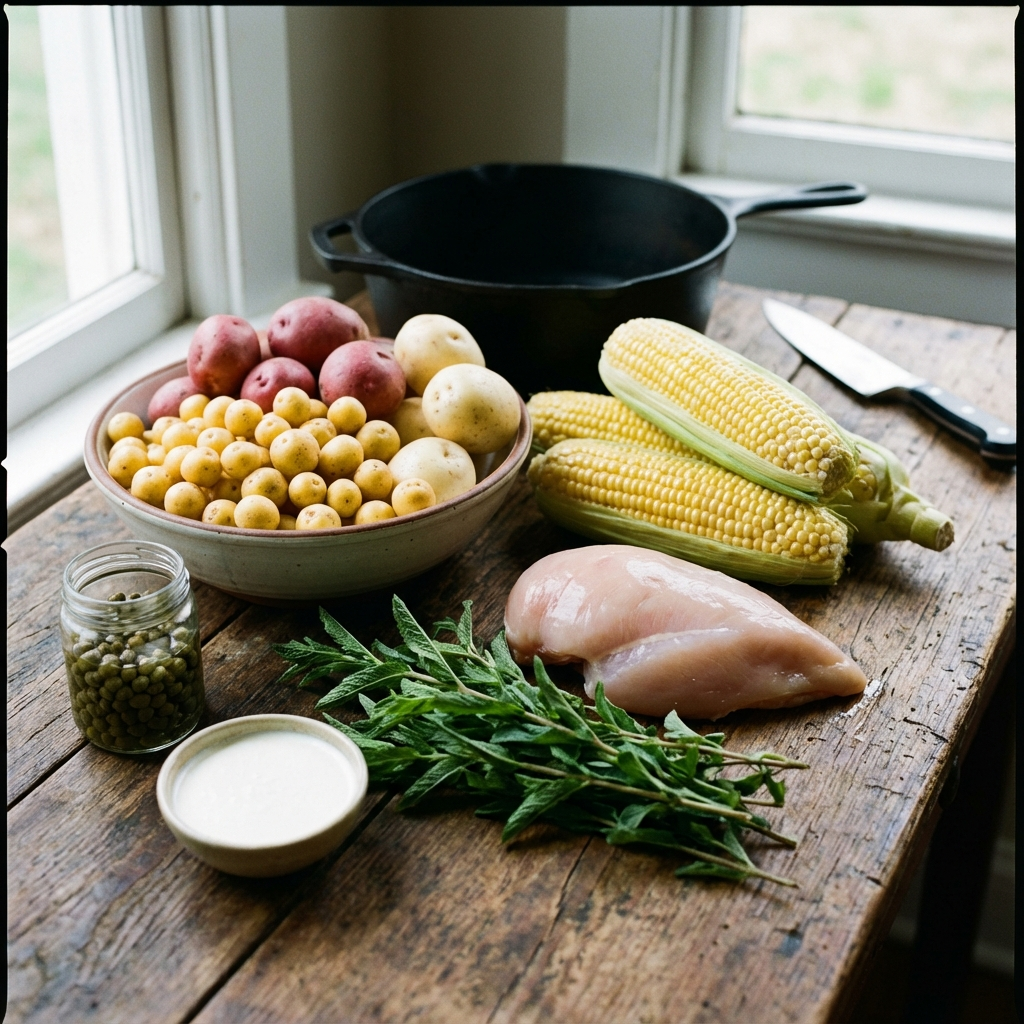
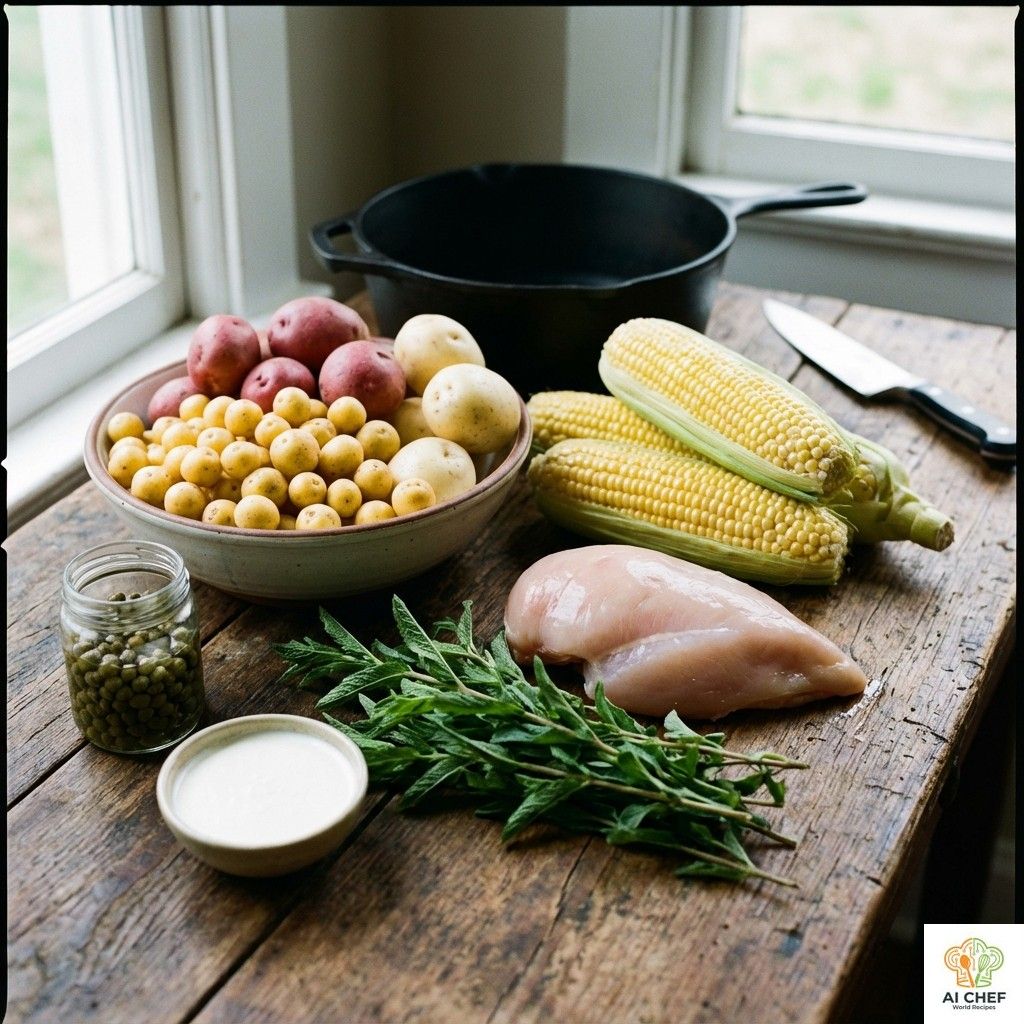
feat: apply watermark to recipe images (fixes binary upload to GitHub Pages)

Changed region(s): [[0.875, 0.875, 1.0, 1.0]]

diff --git a/site/scripts/watermark.js b/site/scripts/watermark.js
@@ -1,0 +1,77 @@
+
+import sharp from 'sharp';
+import fs from 'fs';
+import path from 'path';
+import { glob } from 'glob';
+
+const LOGO_PATH = path.join(process.cwd(), 'public/images/logo.png');
+const DISHES_DIR = path.join(process.cwd(), '../dishes');
+
+async function applyWatermark() {
+  console.log('🖼  Iniciando proceso de marca de agua...');
+
+  if (!fs.existsSync(LOGO_PATH)) {
+    console.error('❌ Error: No se encuentra el logo en ' + LOGO_PATH);
+    process.exit(1);
+  }
+
+  // Find all recipe images (jpg/jpeg/png) in dishes folder
+  // Exclude 'images' subfolders to avoid re-watermarking processed ones if we run multiple times (though we overwrite so it mimics updating)
+  // Actually, we want to watermark everything in dishes/**/images/*.jpg
+  const images = await glob('../dishes/**/*.{jpg,jpeg,png}', { ignore: '**/node_modules/**' });
+
+  console.log(`🔍 Encontradas ${images.length} imágenes para procesar.`);
+
+  let processedCount = 0;
+  let errorCount = 0;
+
+  // Prepare Logo buffer once
+  // Resize logo to be reasonable size (e.g., 100px width)
+  const logoBuffer = await sharp(LOGO_PATH)
+    .resize(100) // ancho del logo watermark
+    .toBuffer();
+
+  for (const imagePath of images) {
+    // Skip if it is the logo itself or map assets
+    if (imagePath.includes('logo.png') || imagePath.includes('cover_collage')) continue;
+
+    try {
+      const inputBuffer = fs.readFileSync(imagePath);
+      const image = sharp(inputBuffer);
+      const metadata = await image.metadata();
+
+      if (!metadata.width || !metadata.height) continue;
+
+      // Calculate position: Bottom Right with padding
+      // But we composite gravity south-east
+
+      const buffer = await image
+        .composite([
+          {
+            input: logoBuffer,
+            gravity: 'southeast',
+            blend: 'over',
+             // padding handled by creating a transparent margin or just let it stick to corner?
+             // Sharp 'gravity' puts it exactly at corner. Let's add a margin by extending the logo canvas or using top/left offsets.
+             // Simpler: Use gravity southeast, but update logo to have padding?
+             // Alternative: Don't resize logo up there, resize relative to image.
+          }
+        ])
+        .jpeg({ quality: 90 }) // Normalize to JPEG 90%
+        .toBuffer();
+
+      fs.writeFileSync(imagePath, buffer);
+      processedCount++;
+      process.stdout.write(`\r✅ Procesadas: ${processedCount}/${images.length}`);
+    } catch (err) {
+      console.error(`\n❌ Error en ${imagePath}:`, err.message);
+      errorCount++;
+    }
+  }
+
+  console.log(`\n\n✨ Proceso completado.`);
+  console.log(`✅ Éxito: ${processedCount}`);
+  console.log(`❌ Errores: ${errorCount}`);
+}
+
+applyWatermark();
